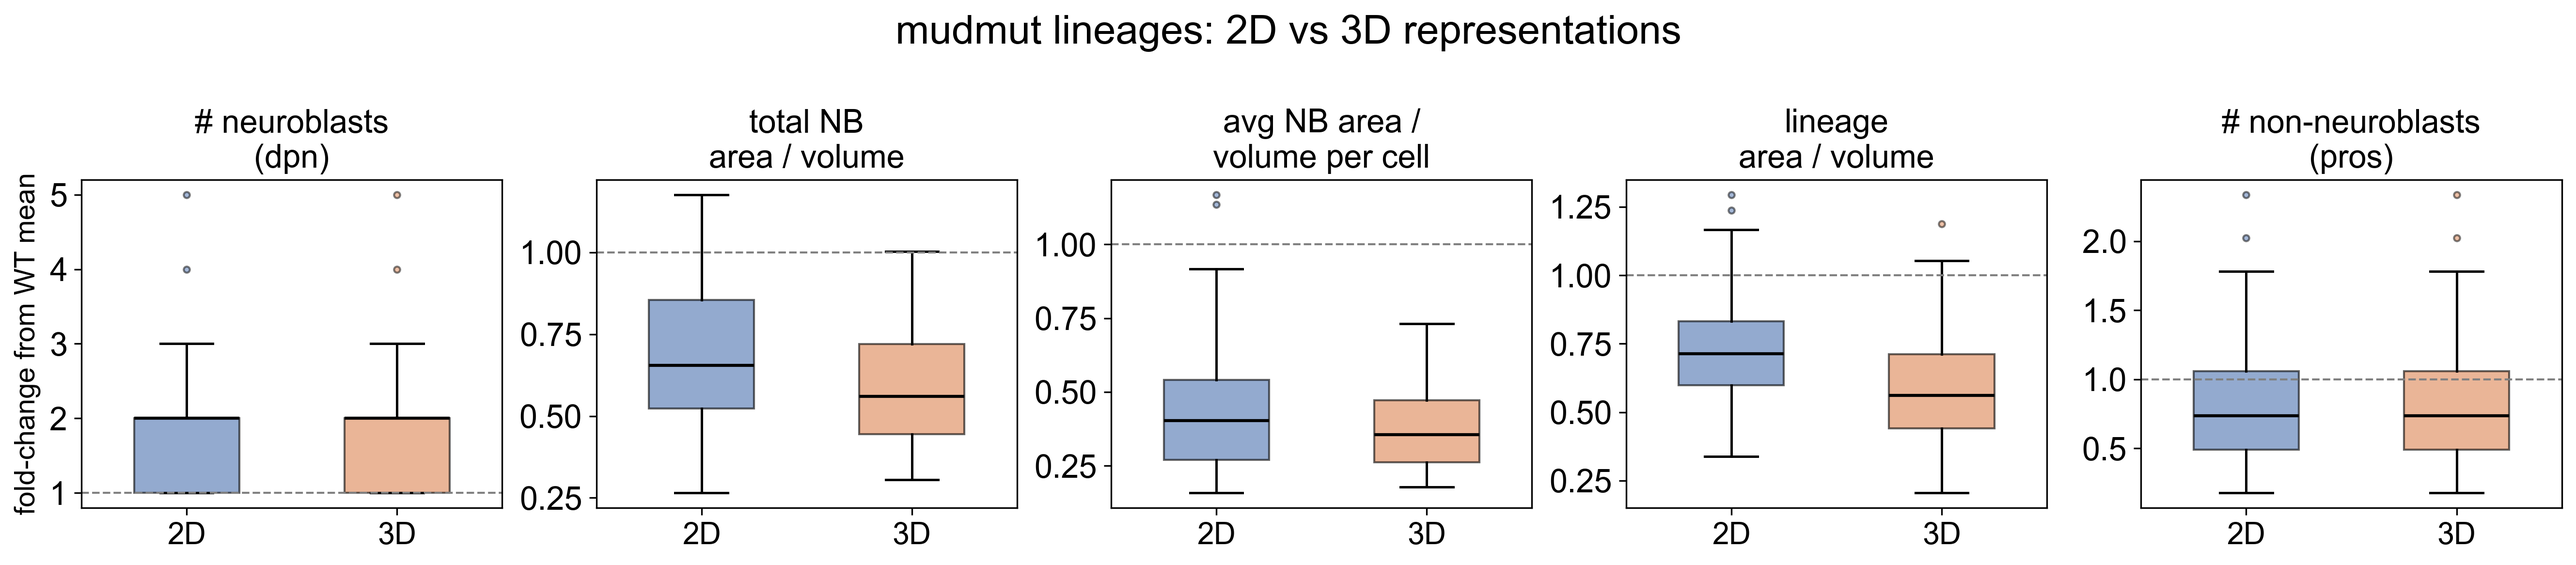
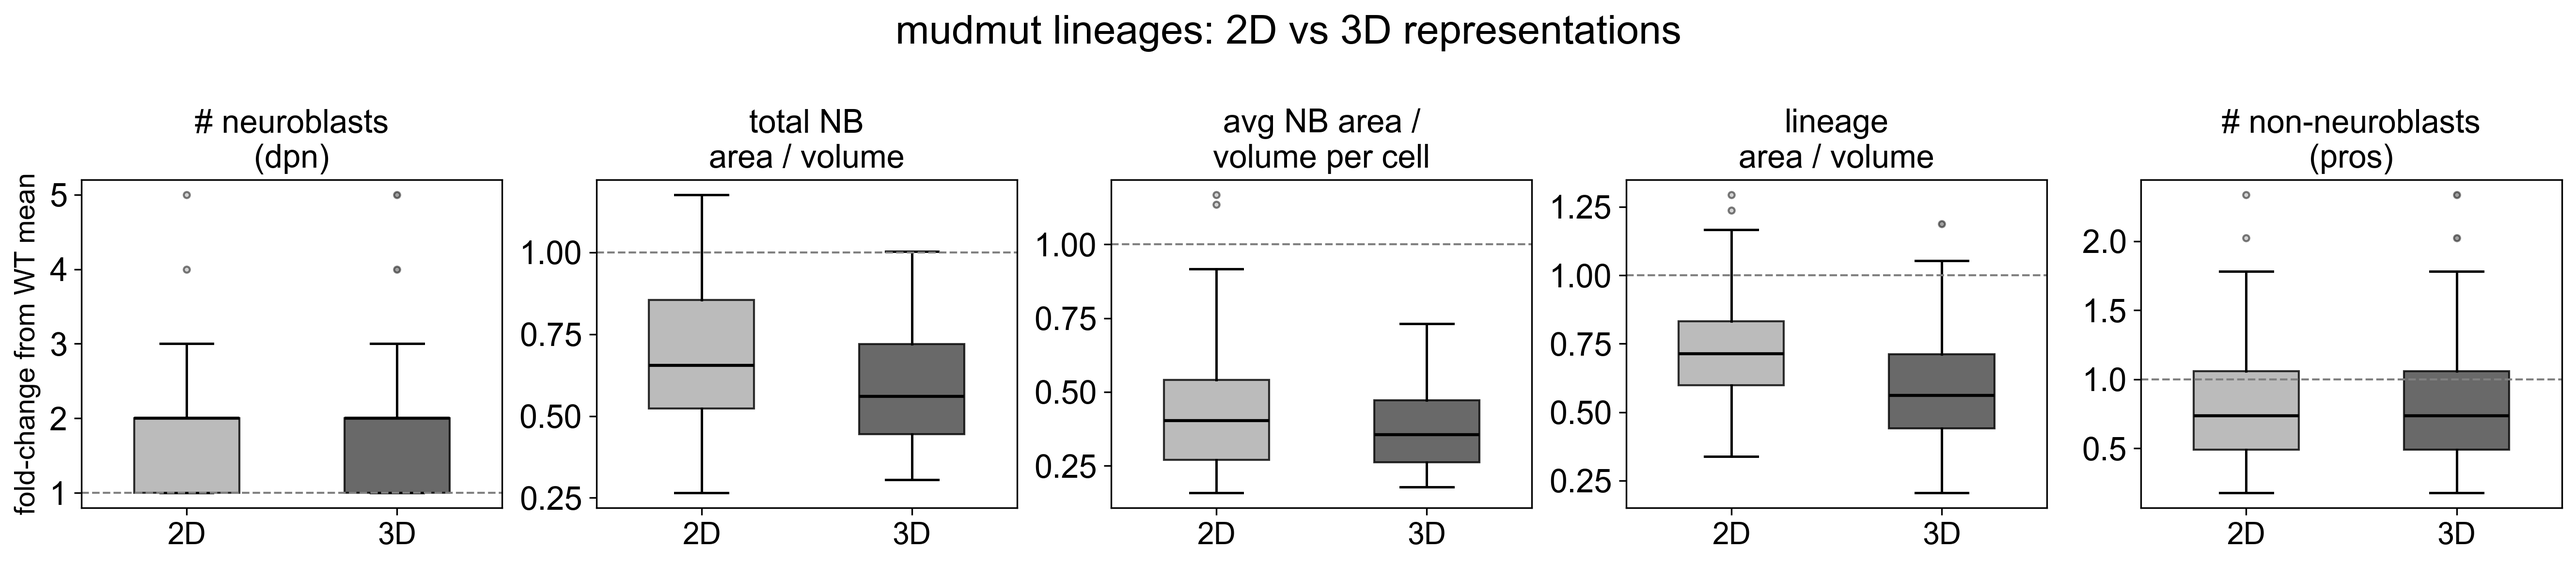
gray boxplots for 2D vs 3D panels

diff --git a/scripts/make_supp_2d_vs_3d_metrics.py b/scripts/make_supp_2d_vs_3d_metrics.py
@@ -187,12 +187,12 @@ def make_genotype_boxplot_panel(
             capprops=dict(linewidth=1.2),
             flierprops=dict(marker="o", markersize=3, linestyle="none", alpha=0.5),
         )
-        bp["boxes"][0].set_facecolor(DIM2D_COLOR)
-        bp["boxes"][0].set_alpha(0.6)
-        bp["boxes"][1].set_facecolor(DIM3D_COLOR)
-        bp["boxes"][1].set_alpha(0.6)
-        bp["fliers"][0].set_markerfacecolor(DIM2D_COLOR)
-        bp["fliers"][1].set_markerfacecolor(DIM3D_COLOR)
+        bp["boxes"][0].set_facecolor("#aaaaaa")
+        bp["boxes"][0].set_alpha(0.8)
+        bp["boxes"][1].set_facecolor("#444444")
+        bp["boxes"][1].set_alpha(0.8)
+        bp["fliers"][0].set_markerfacecolor("#aaaaaa")
+        bp["fliers"][1].set_markerfacecolor("#444444")
 
         ax.axhline(1.0, color="gray", linestyle="--", linewidth=1.0)
         ax.set_title(title, fontsize=FONT_SIZE_LABEL)
